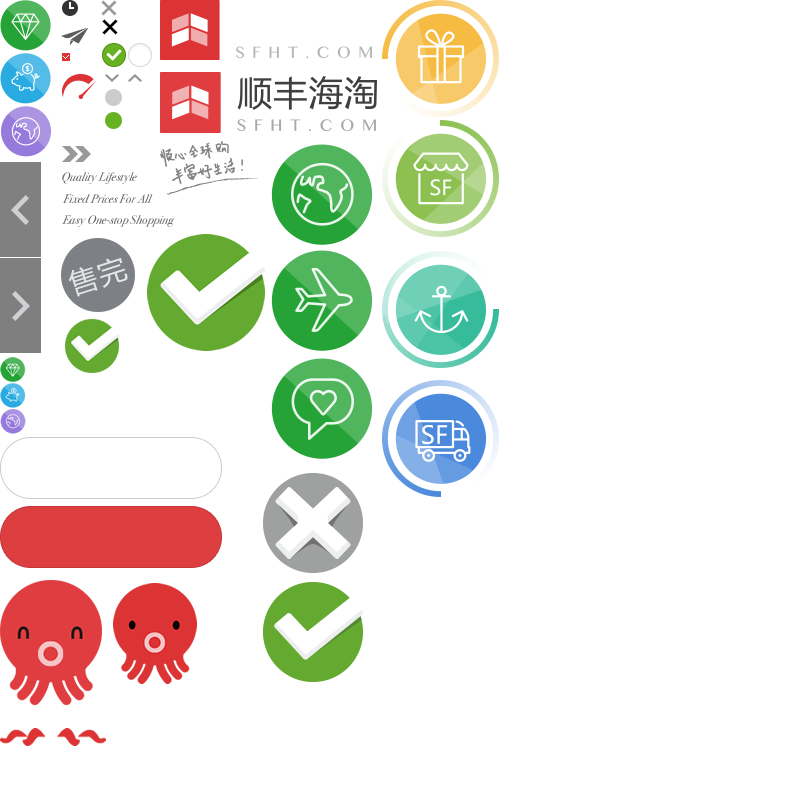
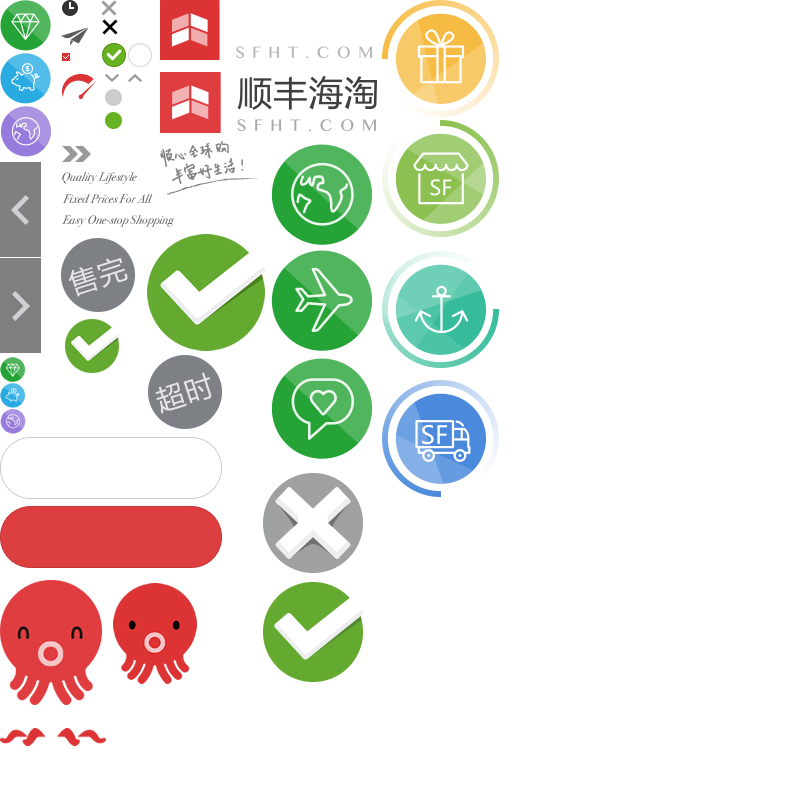
[debug][FRONT-75]首页-限时特卖-倒计时变为零后，未改为：抢购结束

Changed region(s): [[0.1875, 0.4375, 0.2812, 0.5625]]

diff --git a/app/scripts/component/sf.b2c.mall.component.limitedtimesale.js b/app/scripts/component/sf.b2c.mall.component.limitedtimesale.js
@@ -170,7 +170,12 @@ define('sf.b2c.mall.component.limitedtimesale', [
 
             var time = that.setCountDown(timeNode, distance, endTimeMap[timeNode.dataset.contenttype]);
             if (time <= 0) {
-              $(timeNode).closet('.product-r1').append('<div class="mask"></div><span class="icon icon25">售完</span>')
+              var $el = $(timeNode).closest('li').find('.product-r1');
+              if($el.length > 0){
+                if ($el.find('.mask').length == 0) {
+                  $el.append('<div class="mask"></div><span class="icon icon37">超时</span>');
+                }
+              }
             }
           })
         }, '1000');
@@ -361,20 +366,6 @@ define('sf.b2c.mall.component.limitedtimesale', [
        */
       setCountDown: function(timeNode, distance, endDate) {
 
-        // endDate = 1429933141007;
-        // var leftTime = endDate - new Date().getTime() - distance;
-
-        // if (leftTime > 0) {
-        //   // 12月26日（明天）12:00 开始
-        //   var time = moment(endDate).format('MM月DD日')+'（'+ moment(endDate).fromNow() +'）'+moment(endDate).format('hh:mm:ss')+ ' 开始';
-
-        //   if (timeNode.attr) {
-        //     timeNode.attr('time', time);
-        //   }else{
-        //     timeNode.innerHTML = time;
-        //   }
-        // };
-
         var leftTime = endDate - new Date().getTime() - distance;
 
         if (leftTime > 0) {
@@ -387,6 +378,12 @@ define('sf.b2c.mall.component.limitedtimesale', [
             timeNode.attr("time", day1 + "天" + hour + "小时" + minute + "分" + second + "秒");
           } else {
             timeNode.innerHTML = '<span class="icon icon4"></span>'+day1 + "天" + hour + "小时" + minute + "分" + second + "秒";
+          }
+        }else{
+          if (timeNode.attr) {
+            timeNode.attr("抢购结束");
+          } else {
+            timeNode.innerHTML = '<span class="icon icon4"></span>抢购结束';
           }
         }
 

diff --git a/app/css/index.css b/app/css/index.css
@@ -119,9 +119,9 @@
 }
 .product-tab span{
 	position: absolute;
-	bottom:-4px;		
-	left: 50%;	
-	left:0\0;	
+	bottom:-4px;
+	left: 50%;
+	left:0\0;
 	*left:0;
 	height: 4px;
 	width: 0;
@@ -136,7 +136,7 @@
 	transform:translateX(-50%);
 
 }
-:root .product-tab span { left: 50%; } 
+:root .product-tab span { left: 50%; }
 .product-tab li:hover span,
 .product-tab li.active span{
 	width: 100%;
@@ -155,7 +155,7 @@
 	padding-top: 10px;
 	background: #fff;
 	margin-bottom: 38px;
-	
+
 }
 .product-list li:hover .product-r3{
 	background: #DD3E3F;
@@ -178,7 +178,7 @@
 .product-list li .mask{
 	position: absolute;
 }
-.product-list li .icon24{
+.product-list li .icon24, .product-list li .icon37{
 	position: absolute;
 	top: 50%;
 	left: 50%;
@@ -234,7 +234,7 @@
 	padding-right: 19px;
 	padding-bottom: 29px;
 	height: 26px;
-	
+
 }
 .product-r2 .icon6{
 	margin-left: -23px;
@@ -259,7 +259,7 @@
 	font-size: 24px;
 }
 .product-r3c1 del{
-	
+
 	color:#949494;
 	font-size: 14px;
 }
